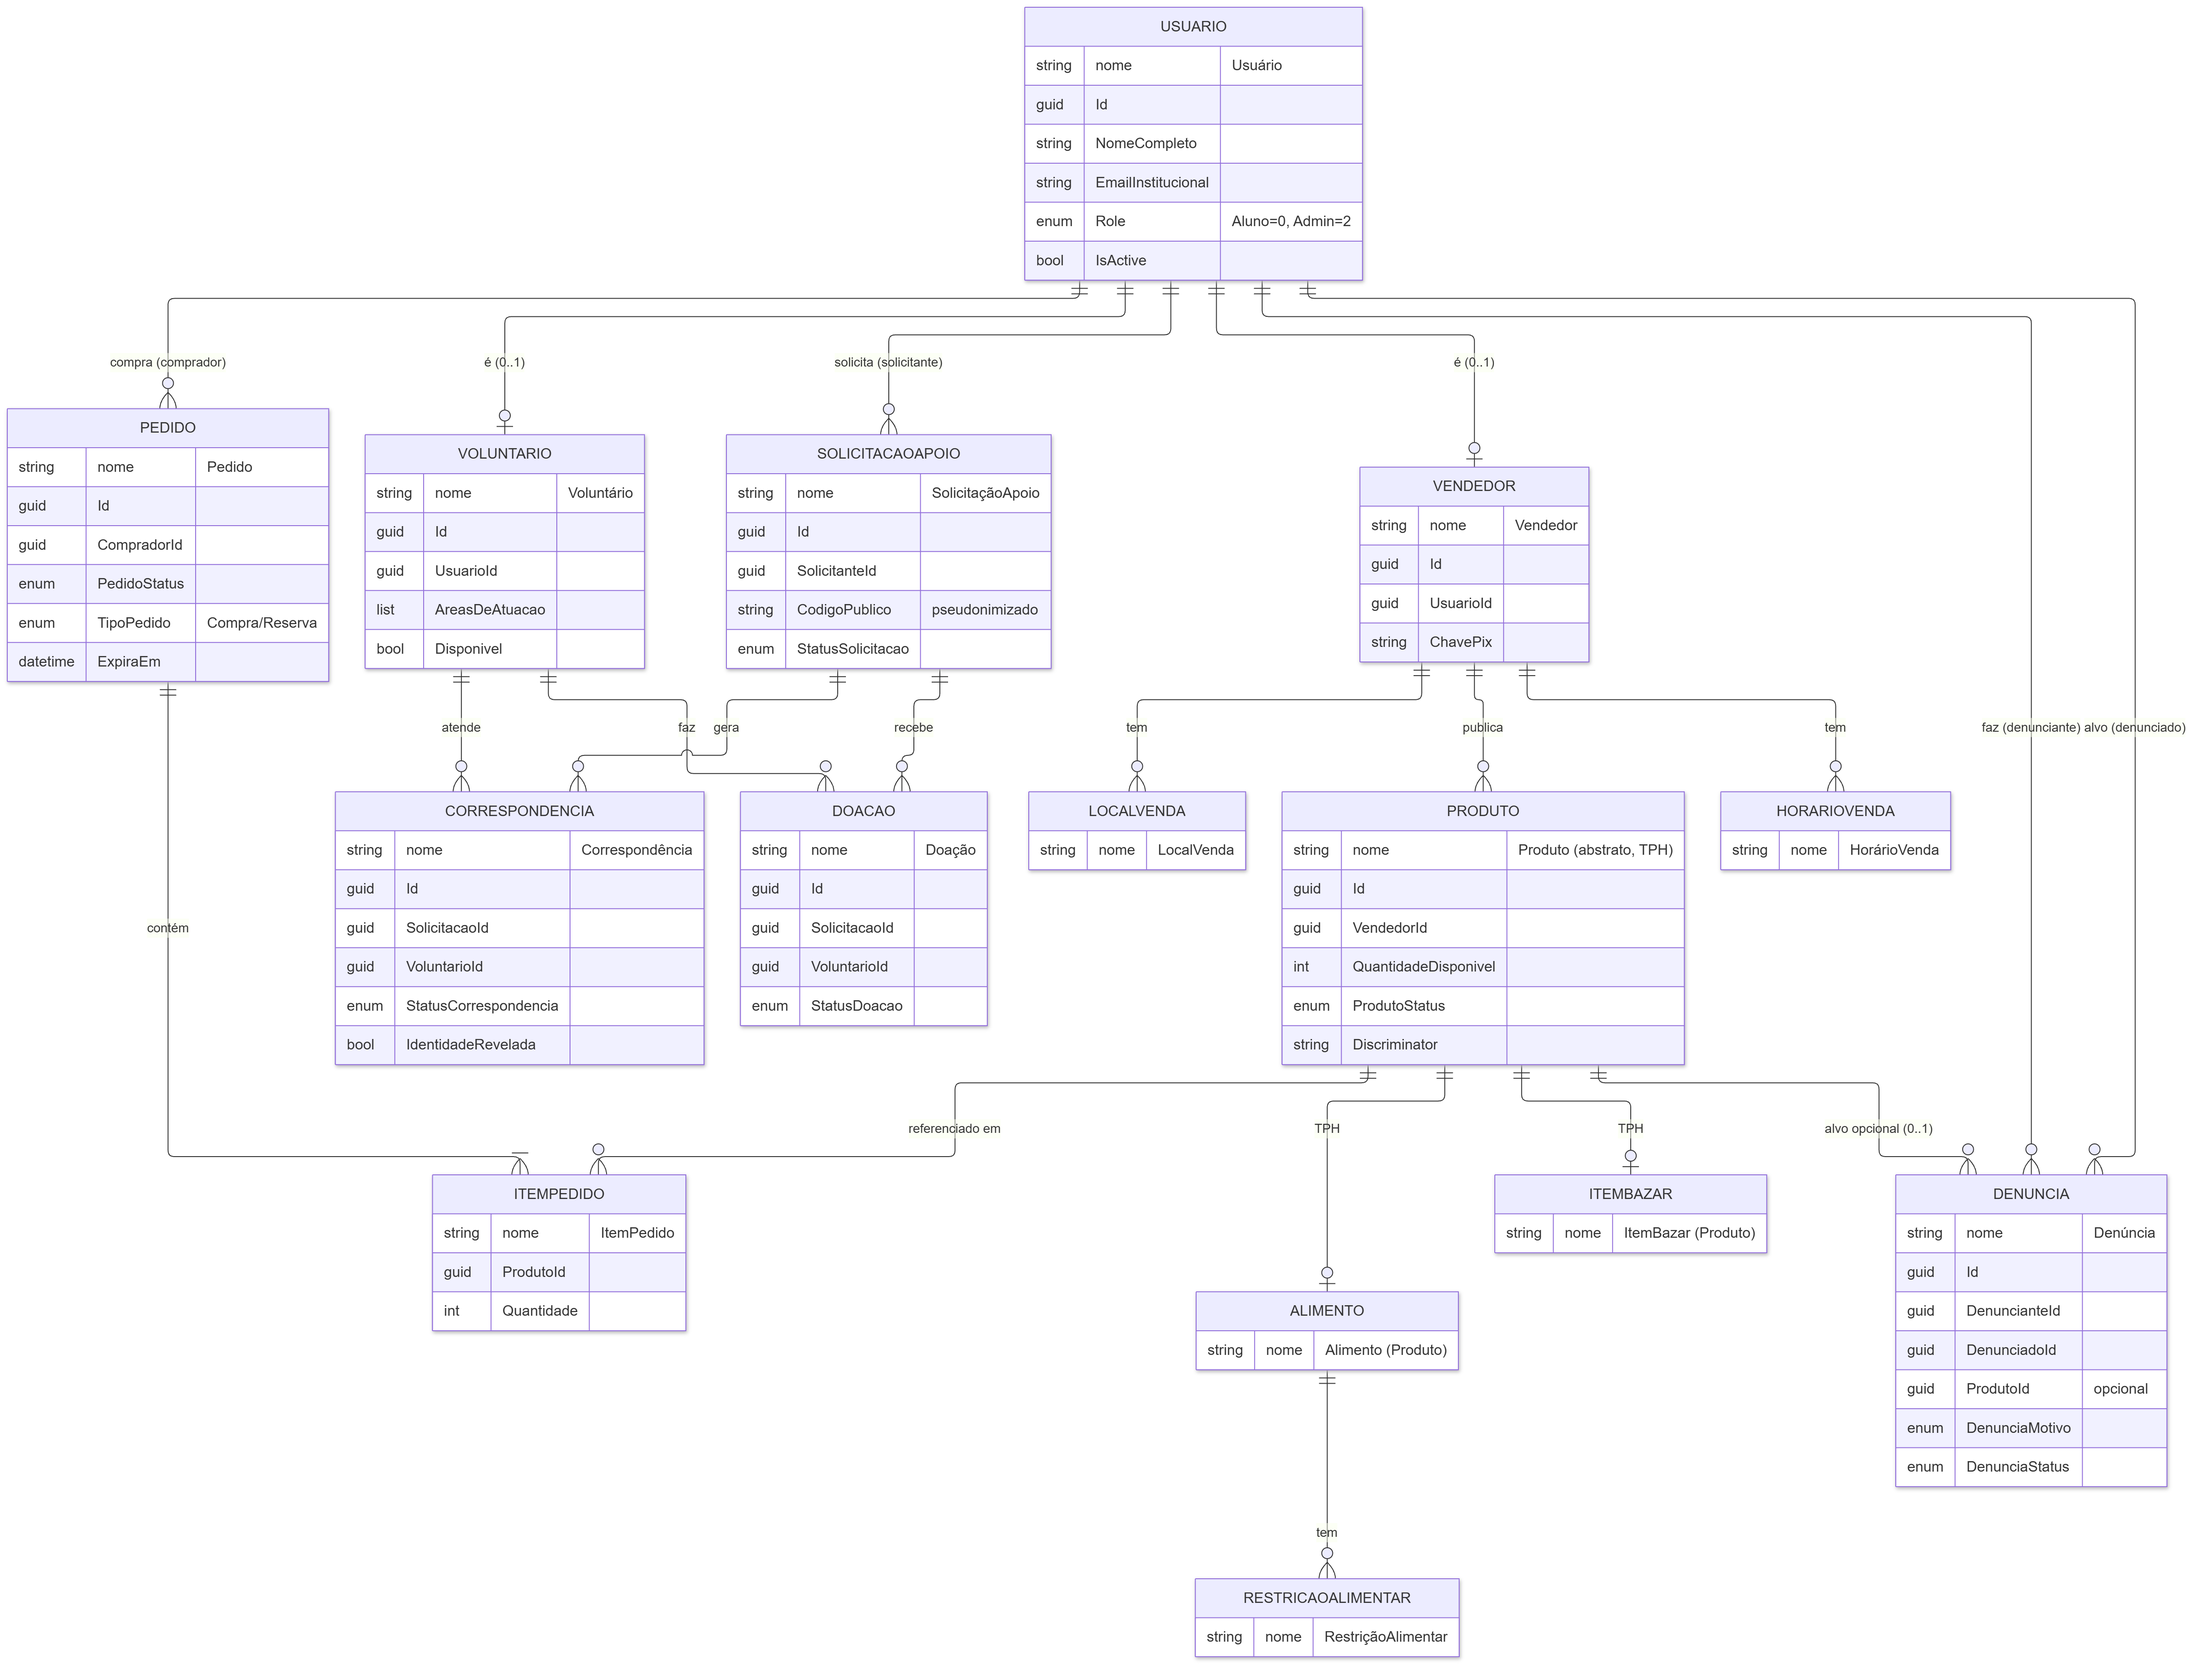
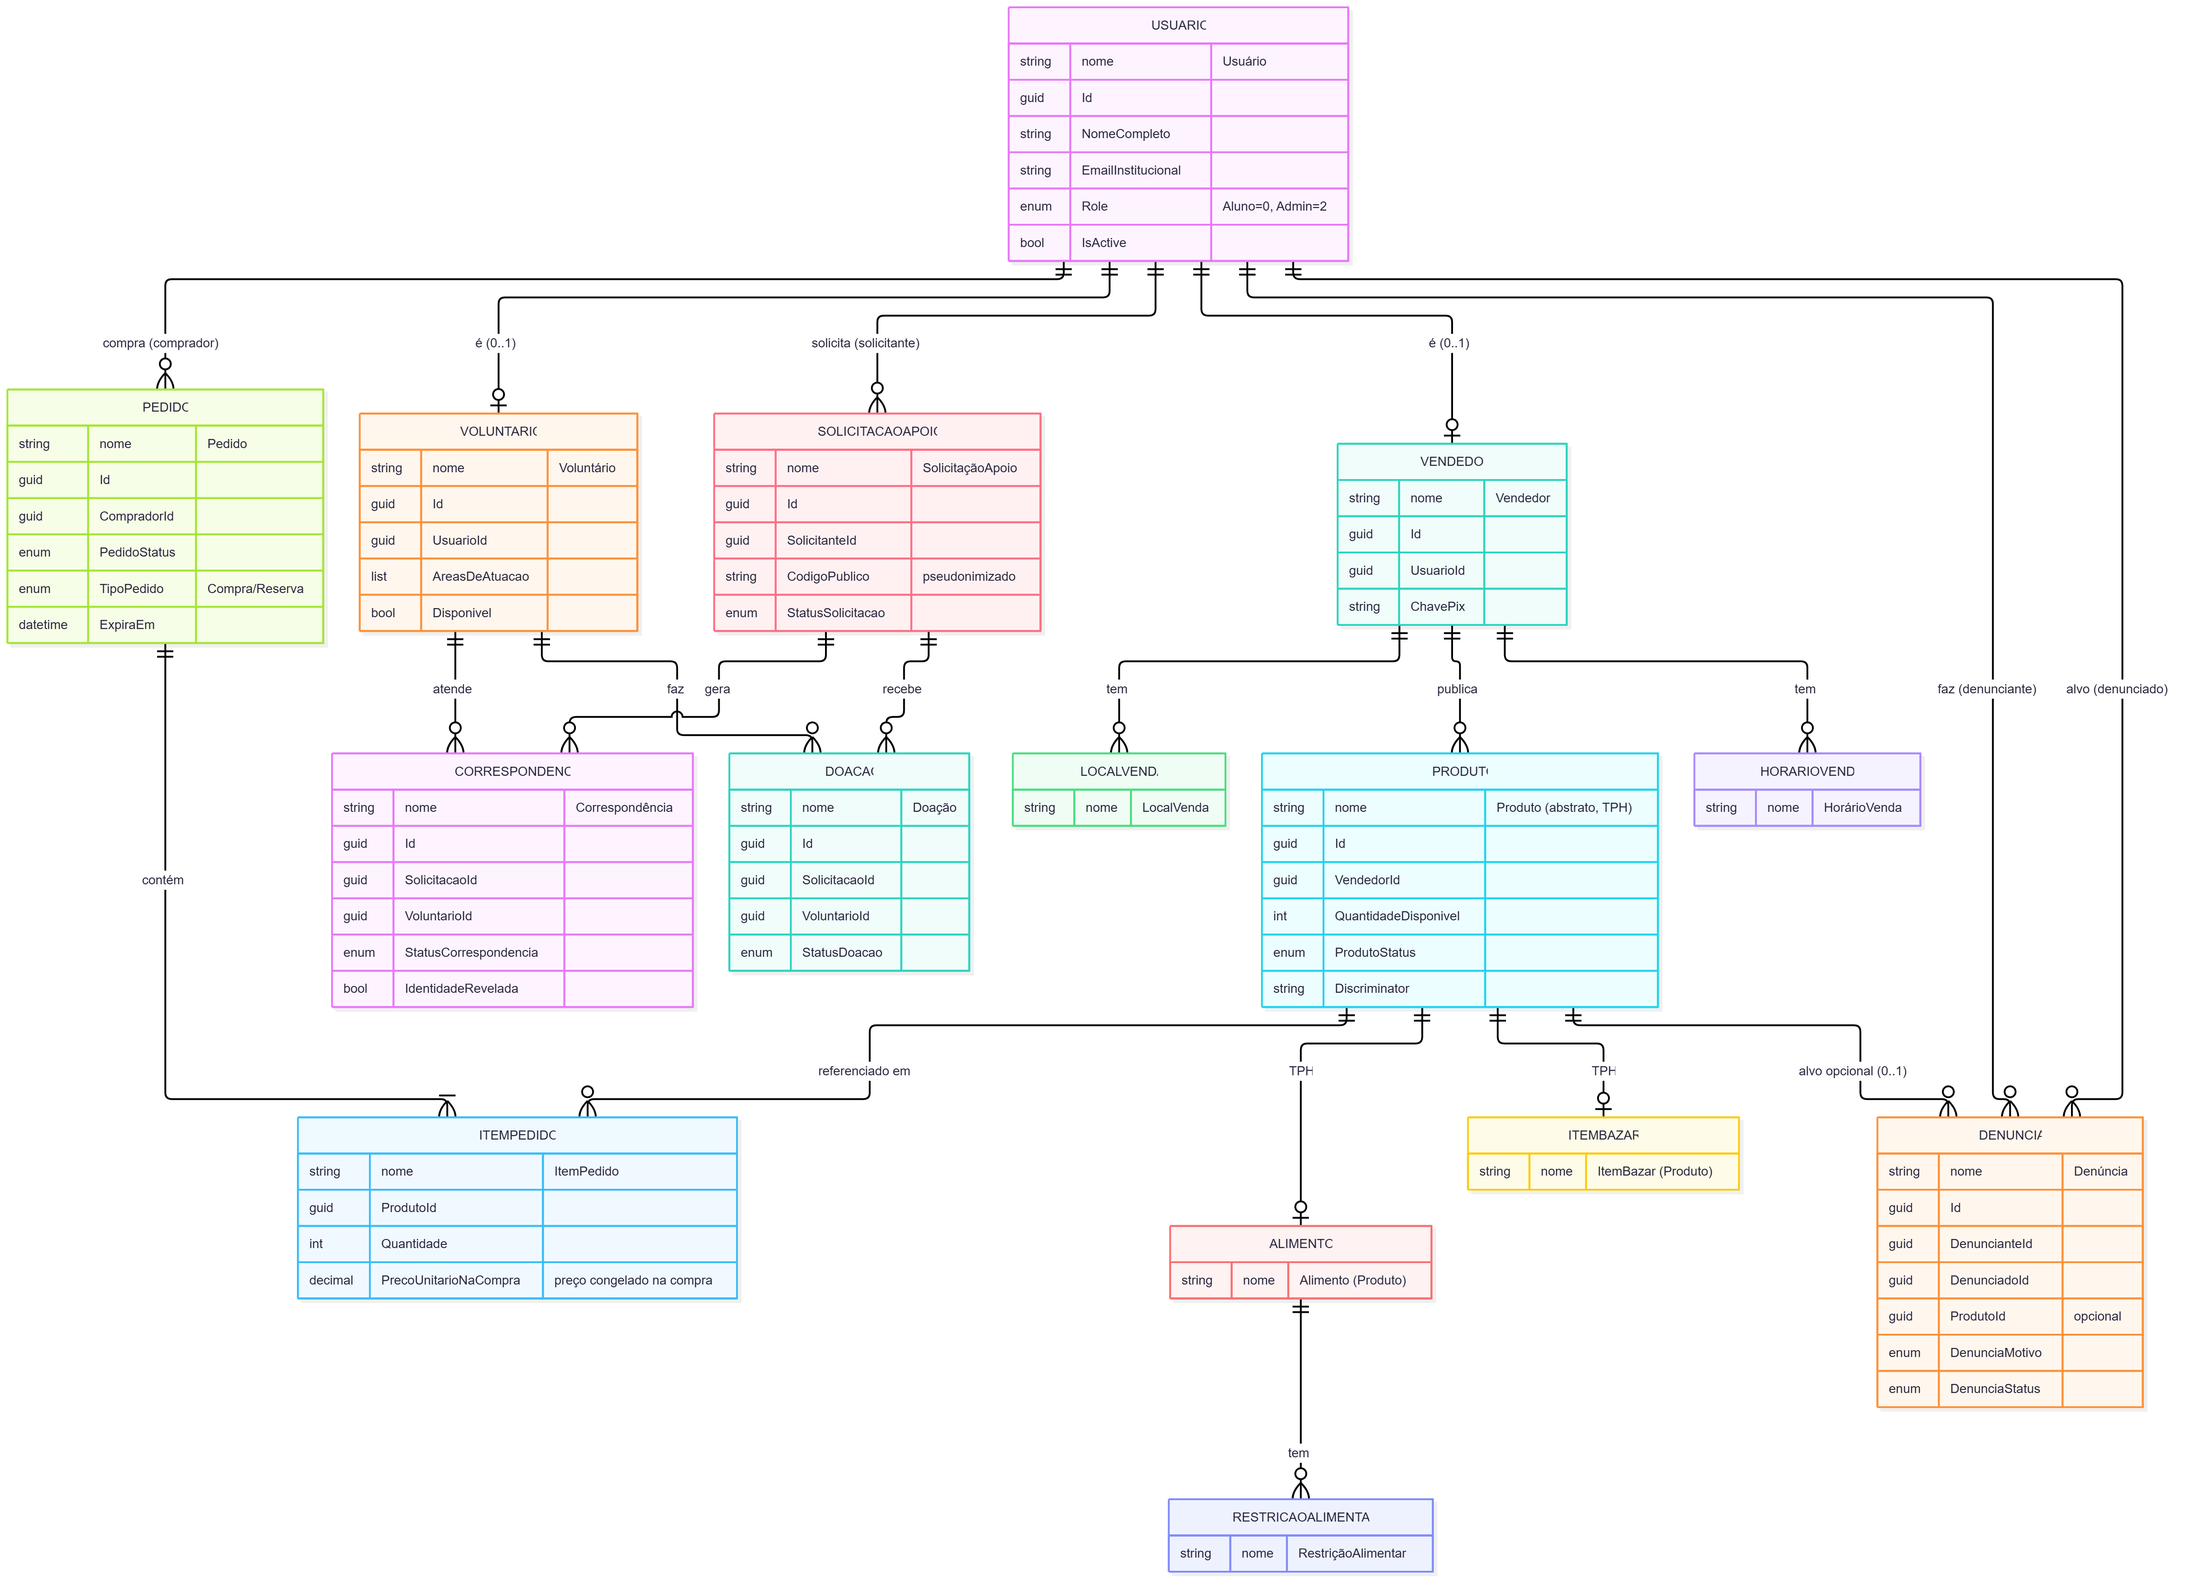
docs: referencia diagrama de dominio no README + ajustes no mermaid (ItemPedido, nota)

diff --git a/Documentos/diagramas-mermaid.md b/Documentos/diagramas-mermaid.md
@@ -75,9 +75,10 @@ flowchart LR
 
 ---
 
-## 2\. Diagrama de domínio (entidades e relacionamentos)
+## 2. Diagrama de domínio (entidades e relacionamentos)
 
-> O renderizador aparava a última letra do título (bug de medição de fonte nesta versão). Solução: um atributo `nome string "..."` como PRIMEIRA linha de cada entidade dá o nome legível e, por ser mais largo que o título, obriga a caixa a abrir — o título deixa de cortar. Os identificadores ficam em MAIÚSCULAS (estilo ER) e o nome legível aparece dentro da caixa.
+> Entidades e relacionamentos do núcleo do domínio. Identificadores em MAIÚSCULAS
+> (estilo ER); o nome legível de cada entidade aparece na primeira linha da caixa.
 
 ```mermaid
 erDiagram
@@ -162,6 +163,7 @@ erDiagram
     string nome "ItemPedido"
     guid ProdutoId
     int Quantidade
+    decimal PrecoUnitarioNaCompra "preço congelado na compra"
   }
   SOLICITACAOAPOIO {
     string nome "SolicitaçãoApoio"
